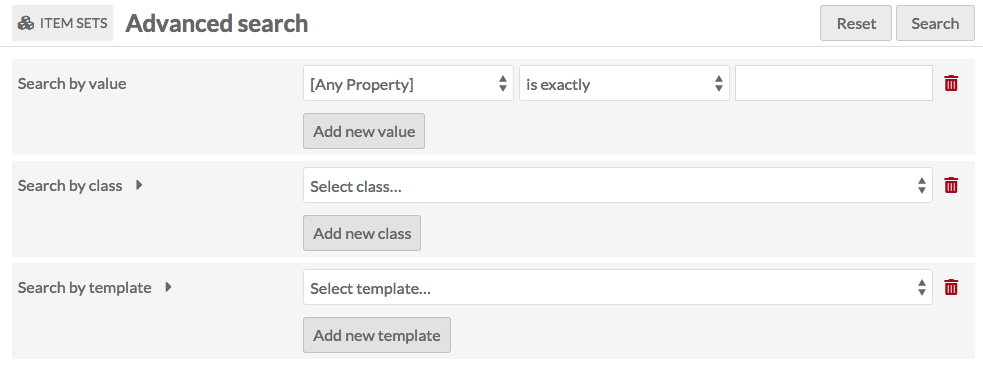
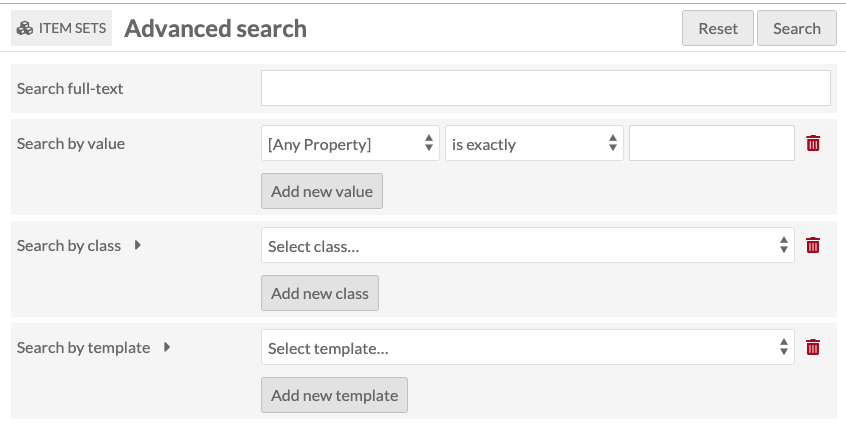
fulltext search

diff --git a/docs/search.md b/docs/search.md
@@ -3,13 +3,19 @@ title: Search
 ---
 There are search functions on both the administrative and public sides of Omeka S installs and sites. 
 
-Underneath the user information is a search field which has an option for advanced search (ellipses) in addition to the button to search (magnifying glass). The search function will survey content on the administrative install, including items, vocabularies, resource templates, and media.  
+## Administrative interface
 
-![Search option in blue sidebar, described above.](/files/advancedsearch1.png)
+### Basic search
 
-Advanced search options (the ellipses) allow you to refine the search by Resource Type, limiting it to *Items*, *Item Sets*, or *Media* by clicking the radio button next to the Resource Type you want to search. 
+There is a search field near the top of the left-hand menu, just underneath the user information. This search field works as a keyword search across all the properties for a resource.
 
-## Advanced Item Search
+![Search option in blue sidebar.](/files/search1.png)
+
+By default, this search operates on items in your installation. However, you can use the ellipses (three dots) to open a menu and change the resource type being searched, selecting from Items, Item Sets, or Media. 
+
+![Close up on the search options, showing the expanded ellipses menu with selection options for Items, Item Sets, or Media.](/files/search2.png)
+
+### Item Advanced Search
 
 Advanced search for items only is available on the [Items](/content/items.md) page, from the *Advanced Search* link above the table of items.
 
@@ -17,7 +23,9 @@ Advanced search for items only is available on the [Items](/content/items.md) pa
 
 The advanced search loads on a new page, and has the following options:
 
-*Search by value*: search for a term or phrase which you enter 
+*Search full-text:* runs a full-text search on all of the text for every item in the installation.
+
+*Search by value:* search for a term or phrase which you enter 
 
 - The first selector allows you to specify a property to search. 
 - The second selector allows you to set the relationship the property has with the value. The options are:
@@ -33,30 +41,32 @@ The advanced search loads on a new page, and has the following options:
 
 To find a resource ID, go to the resource and look at the url in your browser's address bar. The numbers at the end of the url are the resource ID. 
 
-*Search by class*: select a class by which to search from the dropdown menu
+*Search by class:* select a class by which to search from the dropdown menu
 
-*Search by template* select a resource template from the dropdown. Templates are arranged by owner, then alphabetically. 
+*Search by template:* select a resource template from the dropdown. Templates are arranged by owner, then alphabetically. 
 
-*Search by item set*: select from a dropdown of item sites.
+*Search by item set:* select from a dropdown of item sites.
 
-*In site pool*: select from a dropdown menu of all the sites on the Omeka S installation, sorted by user-owner. 
+*In site pool:* select from a dropdown menu of all the sites on the Omeka S installation, sorted by user-owner. 
 
 ![Advanced item search options page.](/files/advancedsearch3.png)
 
-Both *Search by value* and *search by item set* allow you to add multiple inputs - use the *add new value* or *add new item set* buttons to search with more than one value or item set. These search terms build - searching for two item sets will return all items in either item set, rather than only those items which are in both. 
+Searches by value, class, template, and item set allow you to search by more than one input - use the *add new* buttons to search with more than one value or item set. These search terms build - searching for two item sets will return all items in either item set, rather than only those items which are in both. 
 
 You can remove value and item set searches using the red trash can icon to the right of those search options.
 
 You can reset your search terms at any time by using the "Reset" button on the upper right next to the "Search" button.
 
-## Advanced Item Set Search
+## Media Advanced Search
+Advanced search for media is accessed from the [Media](content/media) browse page, from the *Advanced Search* link above the table of item sets.
 
-Advanced search for item sets only is available on the [Item Sets](/content/item-sets.md) page, from the *Advanced Search* link above the table of item sets.
-
-![Advanced search button indicated with a red arrow.](/files/advancedsearchis1.png)
+![Advanced search button indicated with a red arrow.](/files/search_mediaadvance1.png)
 
 The advanced search loads on a new page, and has the following options:
-*Search by value*: search for a term or phrase which you enter 
+
+*Search full-text:* runs a full-text search on all of the text for every media resource in the installation.
+
+*Search by value:* search for a term or phrase which you enter 
 
 - The first selector allows you to specify a property to search. 
 - The second selector allows you to set the relationship the property has with the value. The options are:
@@ -74,10 +84,52 @@ To find a resource ID, go to the resource and look at the url in your browser's 
 
 You can remove value searches using the red trash can icon to the right of the value settings.
 
-*Search by Class*: select a class by which to search from the dropdown menu
+*Search by Class:* select a class by which to search from the dropdown menu
 
-*Search by template* select a resource template from the dropdown. Templates are arranged by owner, then alphabetically.
+*Search by template:* select a resource template from the dropdown. Templates are arranged by owner, then alphabetically.
+
+![Advanced media search options form, with fields as described above.](/files/search_mediaadvance2.png)
+
+Searches by value, class, and template allow you to search by more than one input - use the *add new* buttons to search with more than one value or item set. These search terms build - searching for two templates will return all media using either template. 
+
+You can remove value and item set searches using the red trash can icon to the right of those search options.
+
+You can reset your search terms at any time by using the "Reset" button on the upper right next to the "Search" button.
+
+### Item Set Advanced Search
+
+Advanced search for item sets only is accessed on the [Item Sets](/content/item-sets) page, from the *Advanced Search* link above the table of item sets.
+
+![Advanced search button indicated with a red arrow.](/files/advancedsearchis1.png)
+
+The advanced search loads on a new page, and has the following options:
+
+*Search full-text:* runs a full-text search on all of the text for every item set in the installation.
+
+*Search by value:* search for a term or phrase which you enter 
+
+- The first selector allows you to specify a property to search. 
+- The second selector allows you to set the relationship the property has with the value. The options are:
+	- is exactly, 
+	- is not exactly, 
+	- contains,
+	- does not contain,
+	- is resource with ID,
+	- is not resource with ID,
+	- has any value (there is something in the property), and
+	- has no values.
+- Finally, there is a text field for you to enter the value you want the property to have.
+
+To find a resource ID, go to the resource and look at the url in your browser's address bar. The numbers at the end of the url are the resource ID. 
+
+You can remove value searches using the red trash can icon to the right of the value settings.
+
+*Search by Class:* select a class by which to search from the dropdown menu
+
+*Search by template:* select a resource template from the dropdown. Templates are arranged by owner, then alphabetically.
 
 ![Advanced item set search options form, with fields as described above.](/files/advancedsearchis2.png)
+
+Searches by value, class, and template allow you to search by more than one input - use the *add new* buttons to search with more than one value or item set. These search terms build - searching for two templates will return all media using either template. 
 
 You can reset your search terms at any time by using the "Reset" button on the upper right next to the "Search" button.
